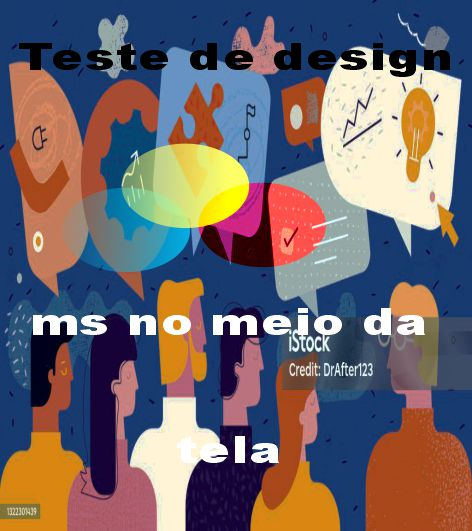
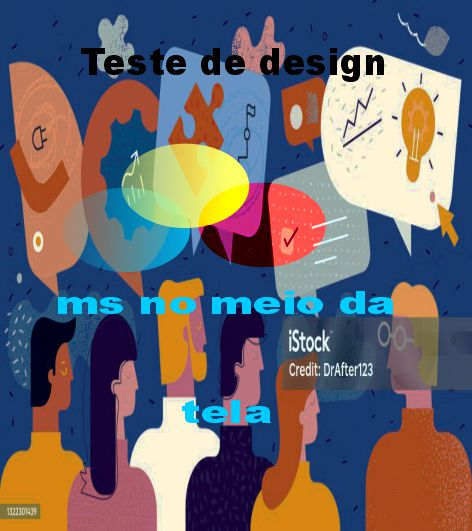
modified:   index.html 	modified:   src/css/index.css 	modified:   src/img/teste1.jpg     melhorando a responsividade

diff --git a/index.html b/index.html
@@ -23,19 +23,19 @@
         </div>
         <div class="carousel-inner">
           <div class="carousel-item active">
-            <img src="src/img/teste1.jpg" class="d-block" alt="numero1">
+            <img src="src/img/Teste1.jpg" class="d-block" alt="numero1">
             <div class="carousel-caption d-none d-md-block">
             </div>
           </div>
 
           <div class="carousel-item">
-            <img src="src/img/noticia_2.jpg" class="d-block" data-bs-target="1000" alt="numero2">
+            <img src="src/img/Teste2.jpg" class="d-block" data-bs-target="1000" alt="numero2">
             <div class="carousel-caption d-none d-md-block">
             </div>
 
           </div>
           <div class="carousel-item">
-            <img src="src/img/noticia_3.jpg"id="imagem" class="d-block" alt="numero3">
+            <img src="src/img/Teste3.jpg"id="imagem" class="d-block" alt="numero3">
             <div class="carousel-caption d-none d-md-block">
             </div>
           </div>

diff --git a/src/css/index.css b/src/css/index.css
@@ -35,7 +35,7 @@ h1{
 }
 img{padding-bottom: 20px;
     border-radius: 6px;
-    max-width: max-content;
+    width: 430px;
 }#jk{justify-content: center;
     border-radius:50px;
     background-color:#b40640;
